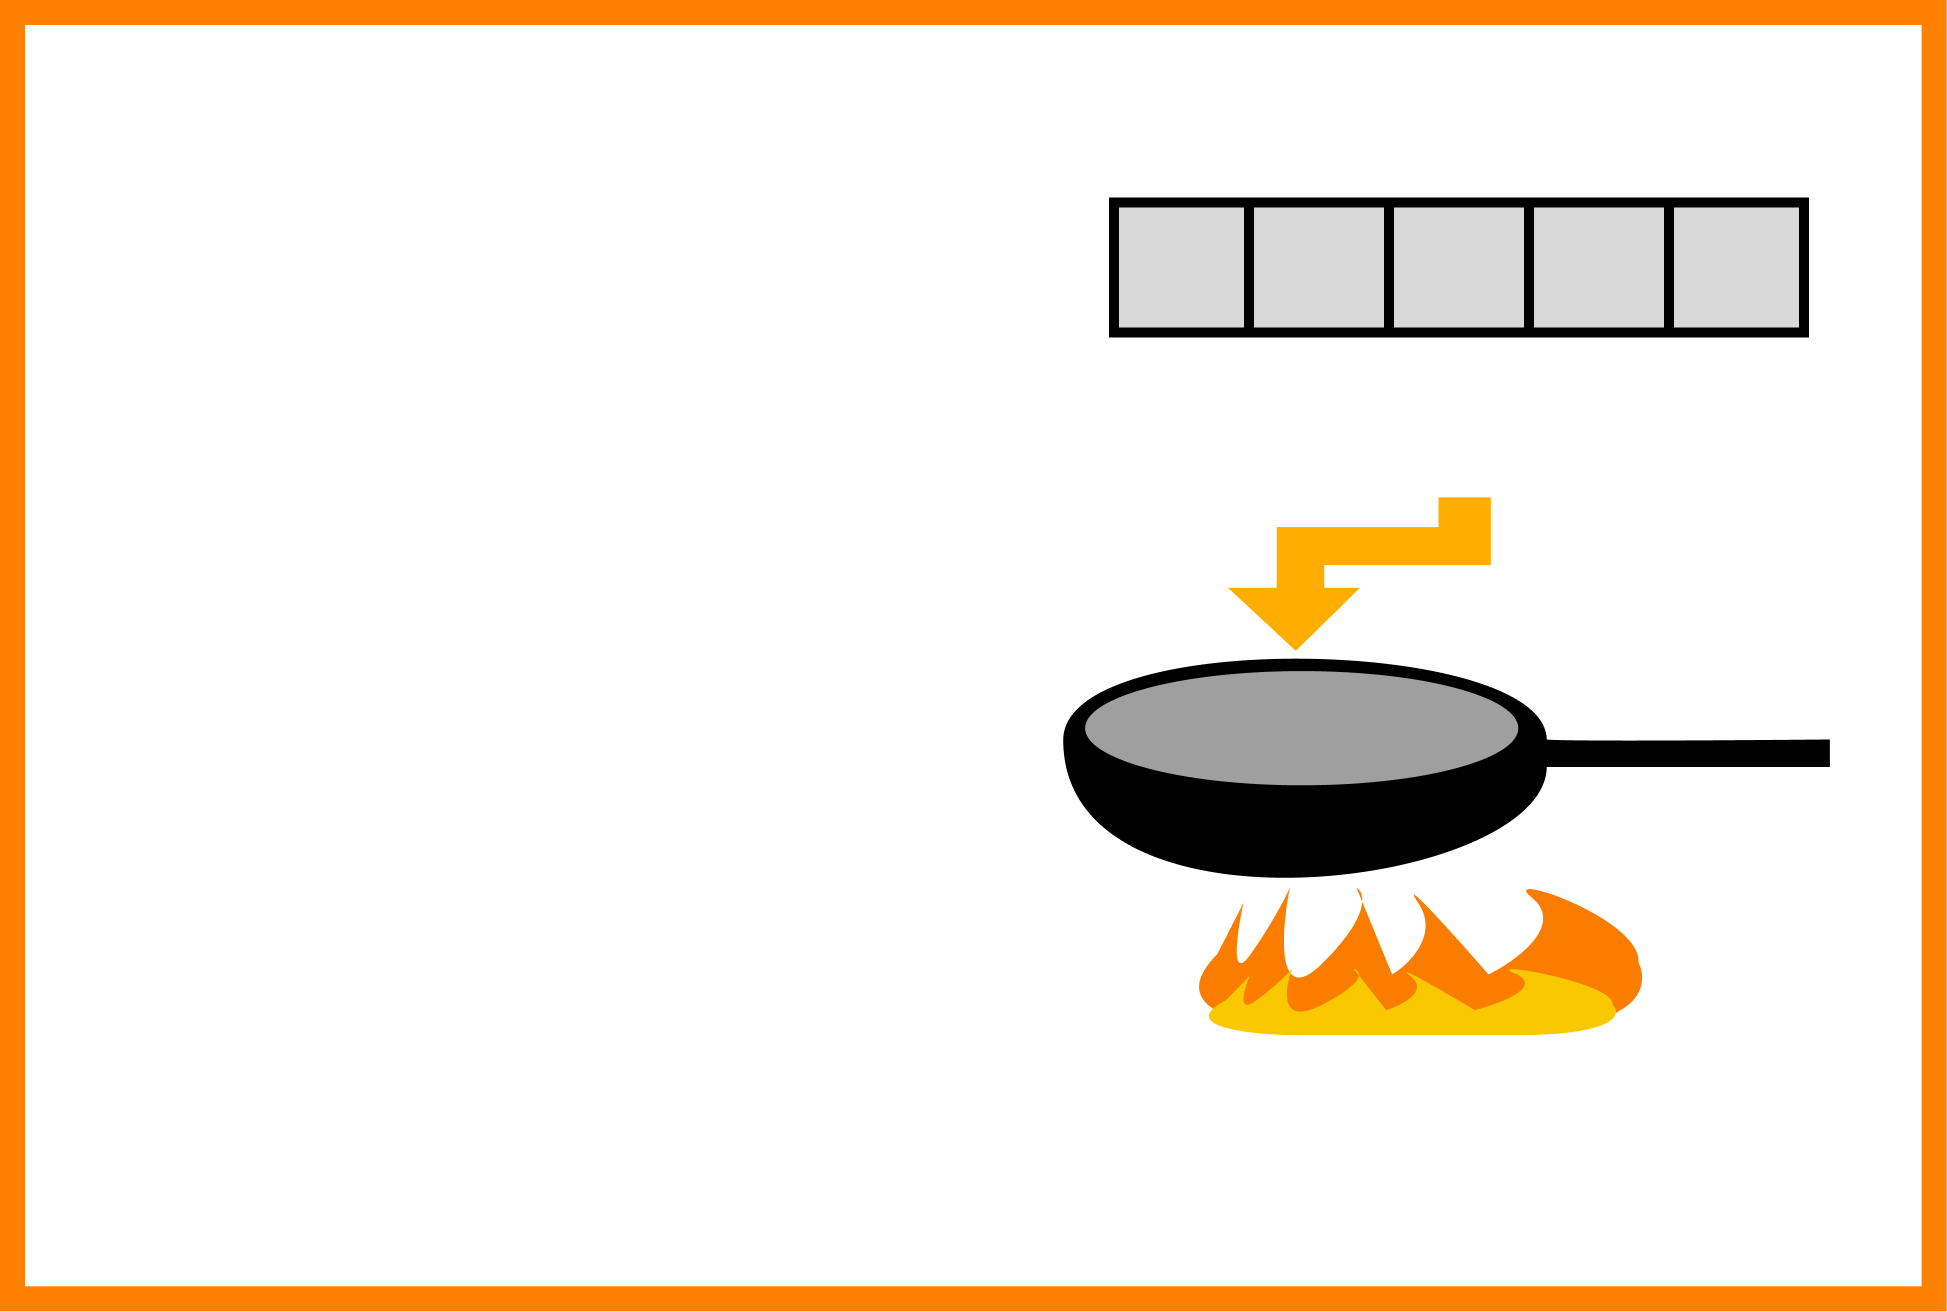
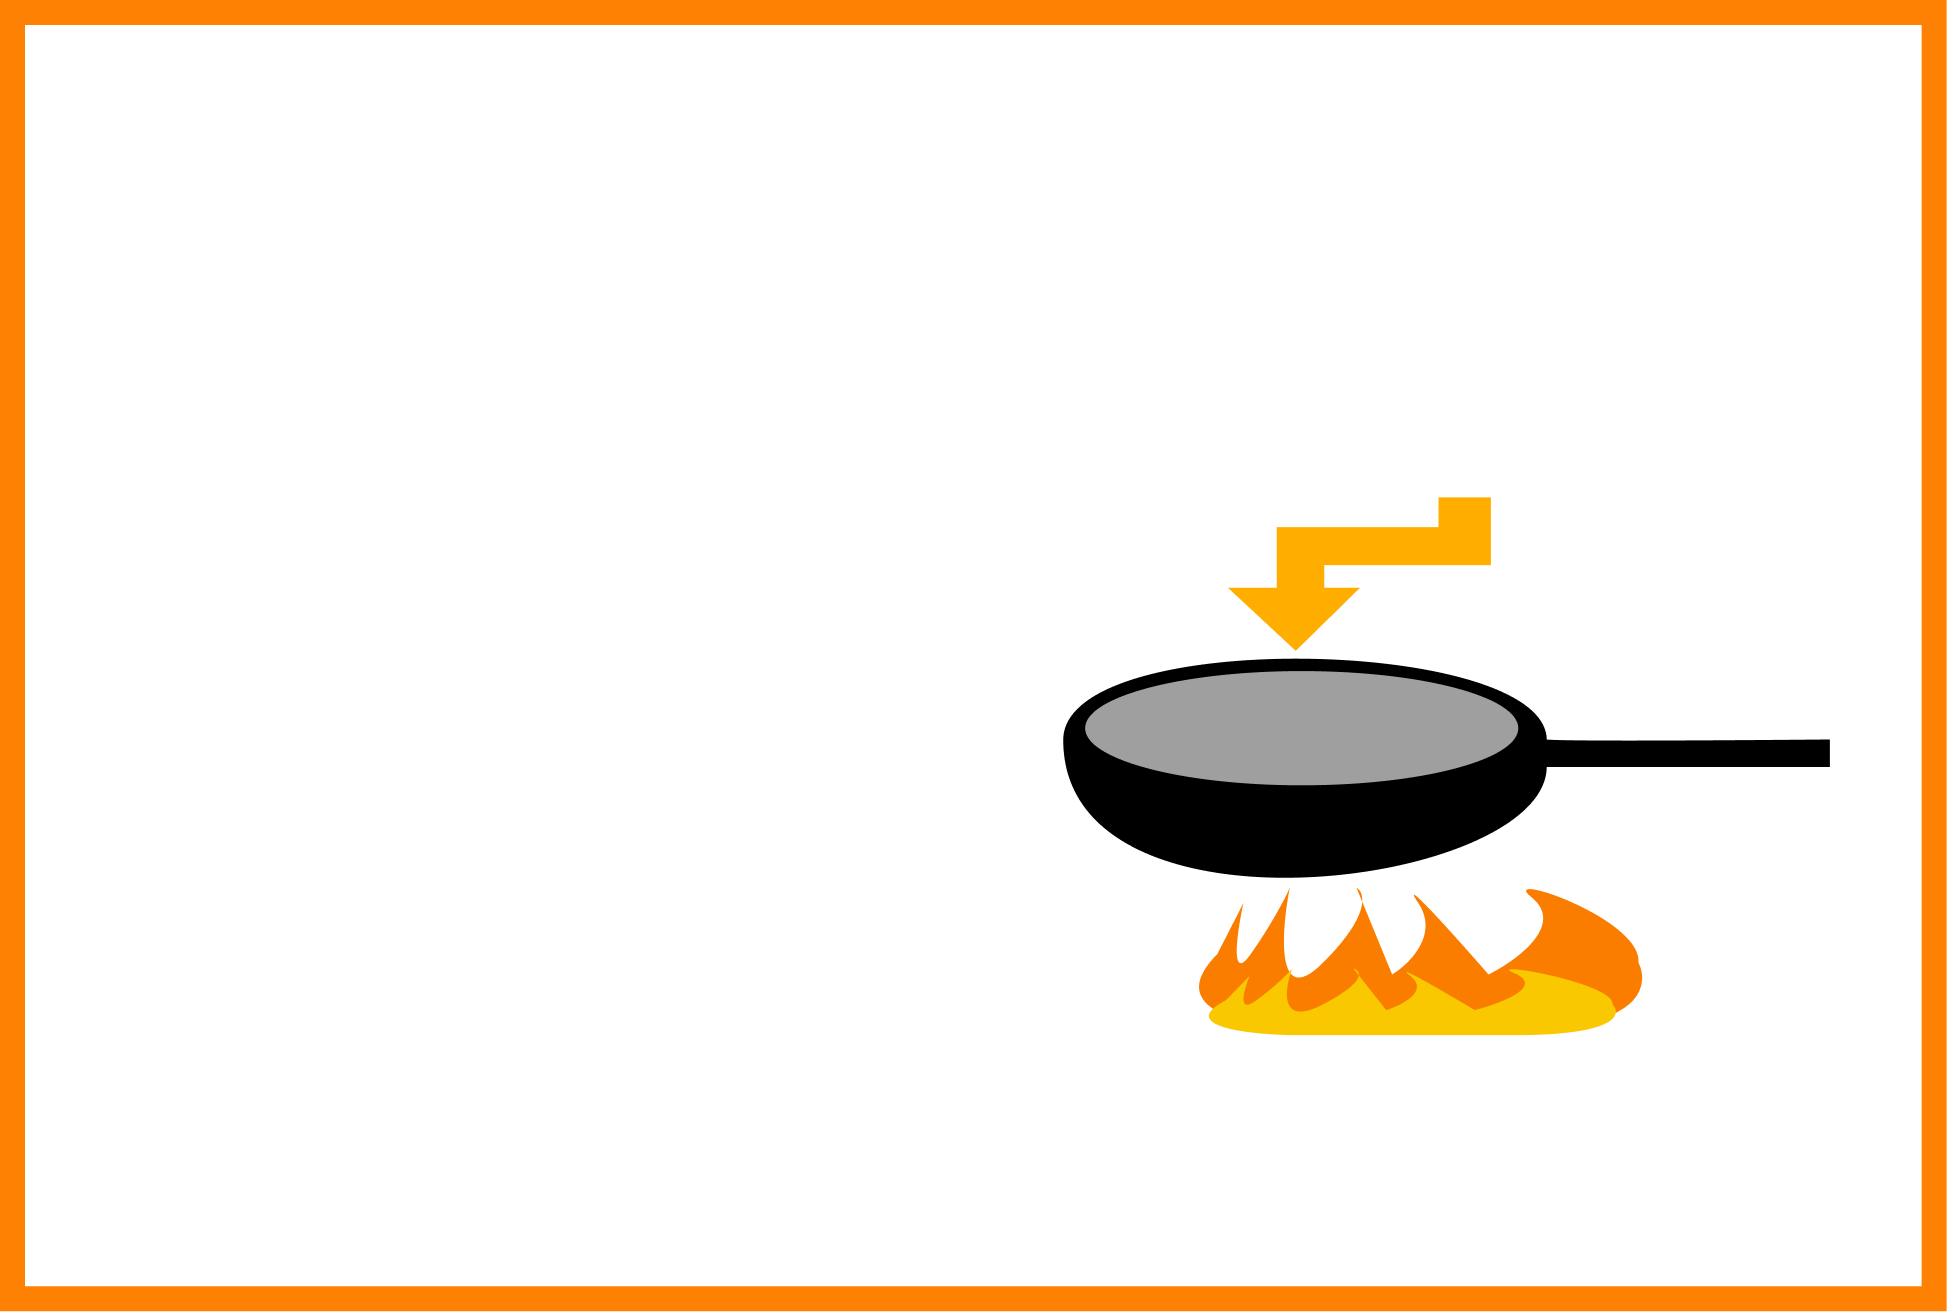
cooking in progress

Changed region(s): [[0.5547, 0.125, 0.9553, 0.2812]]

diff --git a/Cooking And Dungeons/Assets/Scripts/inventory.cs b/Cooking And Dungeons/Assets/Scripts/inventory.cs
@@ -11,16 +11,25 @@ using TMPro;
 using Unity.VisualScripting;
 using UnityEditorInternal.Profiling.Memory.Experimental;
 using UnityEngine;
+using UnityEngine.EventSystems;
 using UnityEngine.UI;
 using UnityEngine.UIElements;
 
 public class inventory : MonoBehaviour
 {
 
-    public GameObject grid;
-    public GameObject tilesPrefab;
-    public List<GameObject> tilesArr;
     
+    public GameObject tilesPrefab;
+
+    public GameObject gridInventory;
+    public List<GameObject> tilesInventoryArr;
+
+    public GameObject gridCooking;
+    public List<GameObject> tilesCookingArr;
+    public int maxCookingTiles;
+
+    public UnityEngine.UI.Button cookingBtn;
+
     // Inventory template
     [System.Serializable]
     public class Item
@@ -51,7 +60,7 @@ public class inventory : MonoBehaviour
                 else
                 {
                     item.nb++;
-                    tilesArr[item.positionTiles].transform.GetChild(1).gameObject.transform.GetComponent<TextMeshProUGUI>().text = item.nb.ToString();
+                    tilesInventoryArr[item.positionTiles].transform.GetChild(1).gameObject.transform.GetComponent<TextMeshProUGUI>().text = item.nb.ToString();
                 }
             }
             if(index == inventoryPlayer.Count)
@@ -65,15 +74,15 @@ public class inventory : MonoBehaviour
                 inventoryPlayer.Add(newItem);
 
                 bool itemStored = false;
-                for(int i = 0; i < tilesArr.Count; i++)
+                for(int i = 0; i < tilesInventoryArr.Count; i++)
                 {
-                       Sprite itemImage = tilesArr[i].transform.GetChild(0).gameObject.transform.GetComponent<UnityEngine.UI.Image>().sprite;
+                       Sprite itemImage = tilesInventoryArr[i].transform.GetChild(0).gameObject.transform.GetComponent<UnityEngine.UI.Image>().sprite;
                     if ( itemImage == null && itemStored == false)
                     {
                         itemImage = newItem.img;
                         newItem.positionTiles = i;
-                        tilesArr[i].transform.GetChild(0).gameObject.transform.GetComponent<UnityEngine.UI.Image>().sprite = newItem.img;
-                        tilesArr[i].transform.GetChild(1).gameObject.transform.GetComponent<TextMeshProUGUI>().text =  newItem.nb.ToString();
+                        tilesInventoryArr[i].transform.GetChild(0).gameObject.transform.GetComponent<UnityEngine.UI.Image>().sprite = newItem.img;
+                        tilesInventoryArr[i].transform.GetChild(1).gameObject.transform.GetComponent<TextMeshProUGUI>().text =  newItem.nb.ToString();
                         itemStored = true;
                     }
                     
@@ -85,7 +94,7 @@ public class inventory : MonoBehaviour
         }
     }
 
-    public void inventoryCreator(int max, GameObject gridTemplate, GameObject tileTemplate, List<GameObject> arr)
+    public void gridCreator(int max, GameObject gridTemplate, GameObject tileTemplate, List<GameObject> arr)
     {
 
         int indexMax = max;
@@ -96,7 +105,7 @@ public class inventory : MonoBehaviour
             {
                 for (int x = 0;x < indexMax; x++)
                 {
-                    arr.Add(grid.transform.GetChild(x).gameObject);
+                    arr.Add(gridTemplate.transform.GetChild(x).gameObject);
                 }
             }
         }
@@ -106,10 +115,16 @@ public class inventory : MonoBehaviour
     // Start is called once before the first execution of Update after the MonoBehaviour is created
     void Start()
     {
-        //createInventory();
-        inventoryCreator(maxInventorySize, grid, tilesPrefab, tilesArr);
-    }
+       gridCreator(maxInventorySize, gridInventory, tilesPrefab, tilesInventoryArr);
+       gridCreator(maxCookingTiles,gridCooking, tilesPrefab, tilesCookingArr);
 
+        UnityEngine.UI.Button btn = cookingBtn.GetComponent<UnityEngine.UI.Button>();
+        btn.onClick.AddListener(cookClick);
+    }
+    void cookClick()
+    {
+
+    }
     // Update is called once per frame
     void Update()
     {

diff --git a/Cooking And Dungeons/Assets/tileContent.cs b/Cooking And Dungeons/Assets/tileContent.cs
@@ -1,0 +1,27 @@
+using UnityEngine;
+using UnityEngine.UI;
+
+public class tileContent : MonoBehaviour
+{
+    // Start is called once before the first execution of Update after the MonoBehaviour is created
+
+
+    public Button tile;
+
+    void Start()
+    {
+        Button btn = tile.GetComponent<Button>();
+        btn.onClick.AddListener(onClick);
+    }
+    void onClick()
+    {
+       
+    }
+
+
+    // Update is called once per frame
+    void Update()
+    {
+        
+    }
+}

diff --git a/Cooking And Dungeons/Assets/cooking.cs b/Cooking And Dungeons/Assets/cooking.cs
@@ -1,0 +1,16 @@
+using UnityEngine;
+
+public class cooking : MonoBehaviour
+{
+    // Start is called once before the first execution of Update after the MonoBehaviour is created
+    void Start()
+    {
+        
+    }
+
+    // Update is called once per frame
+    void Update()
+    {
+        
+    }
+}
